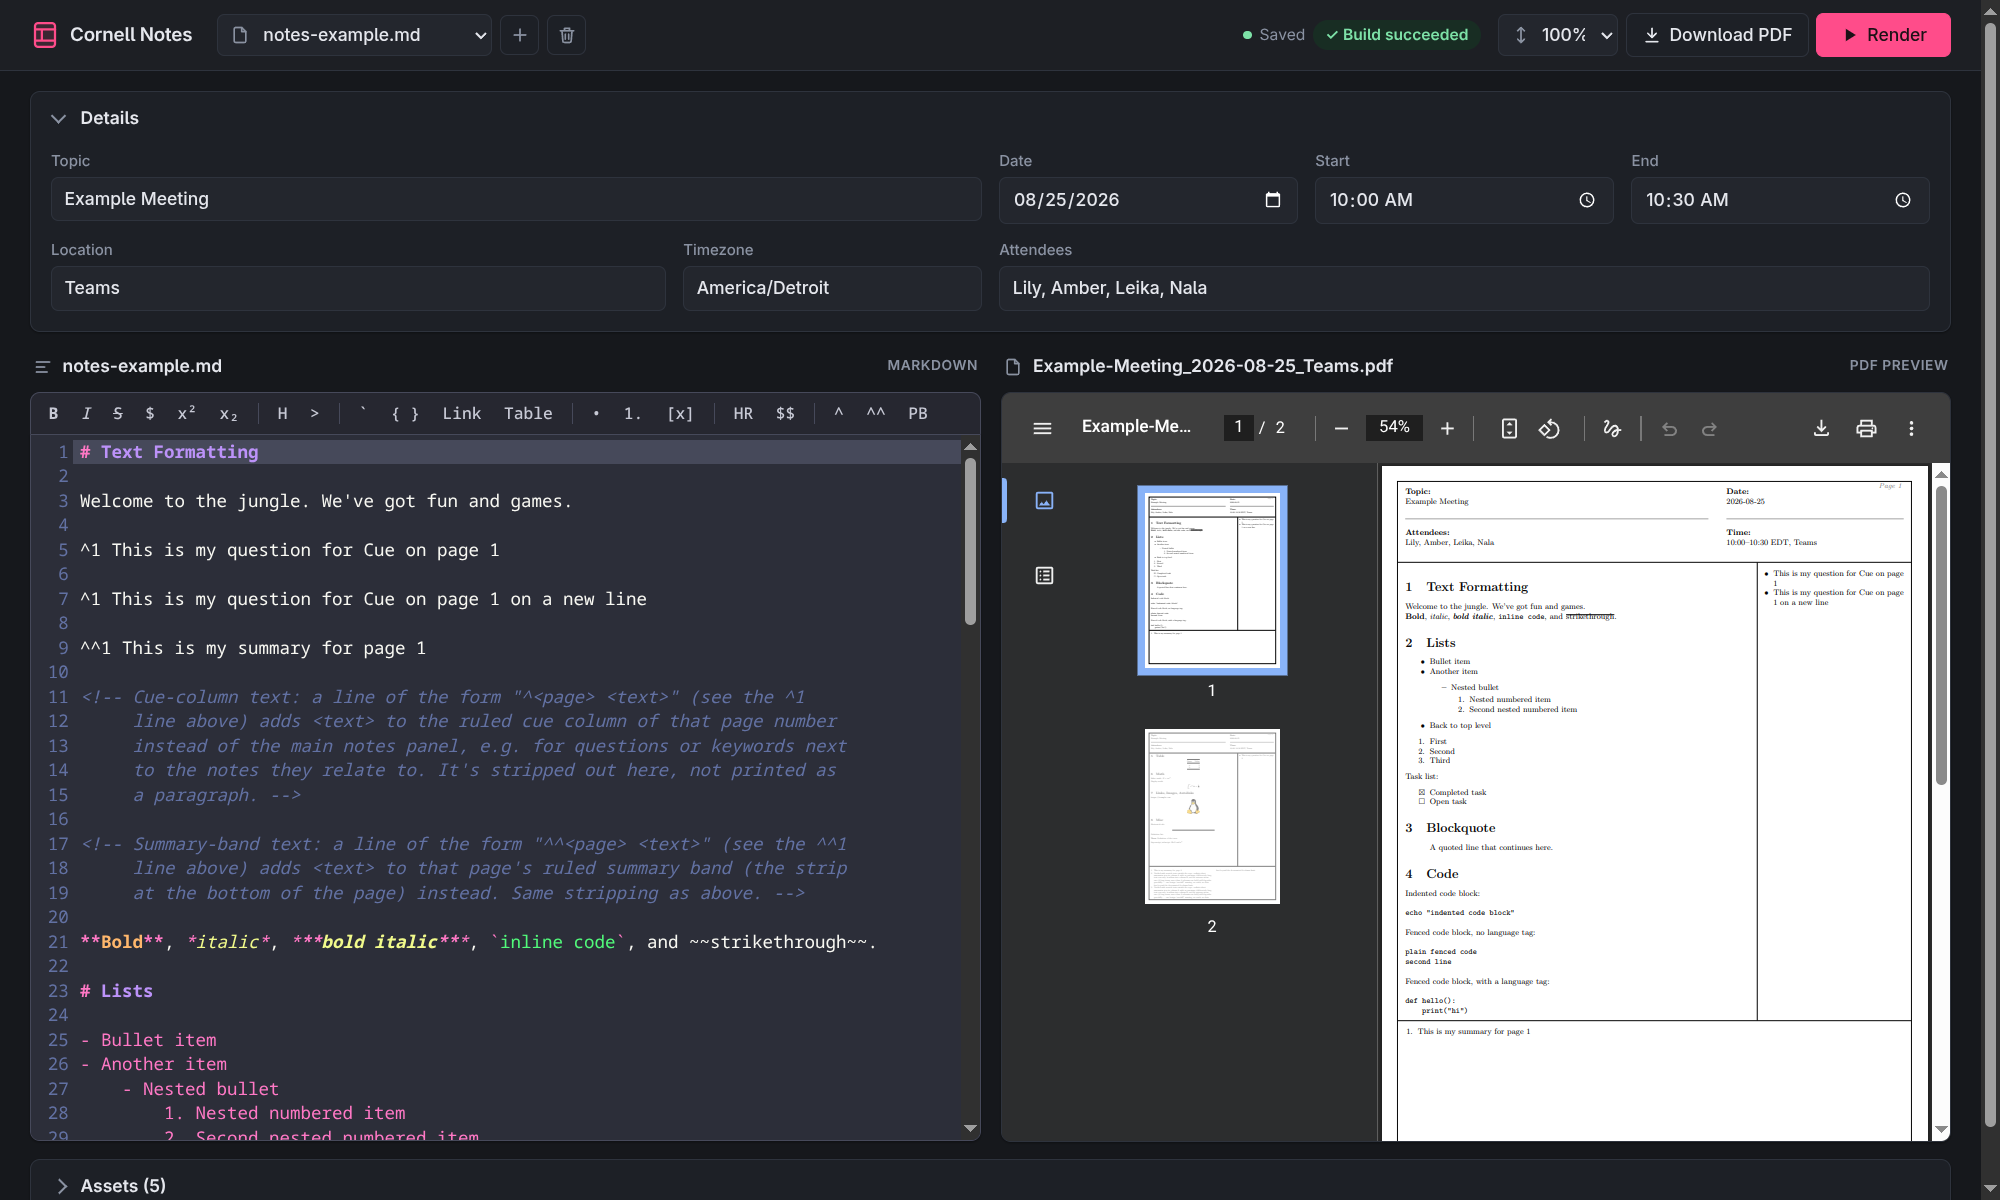
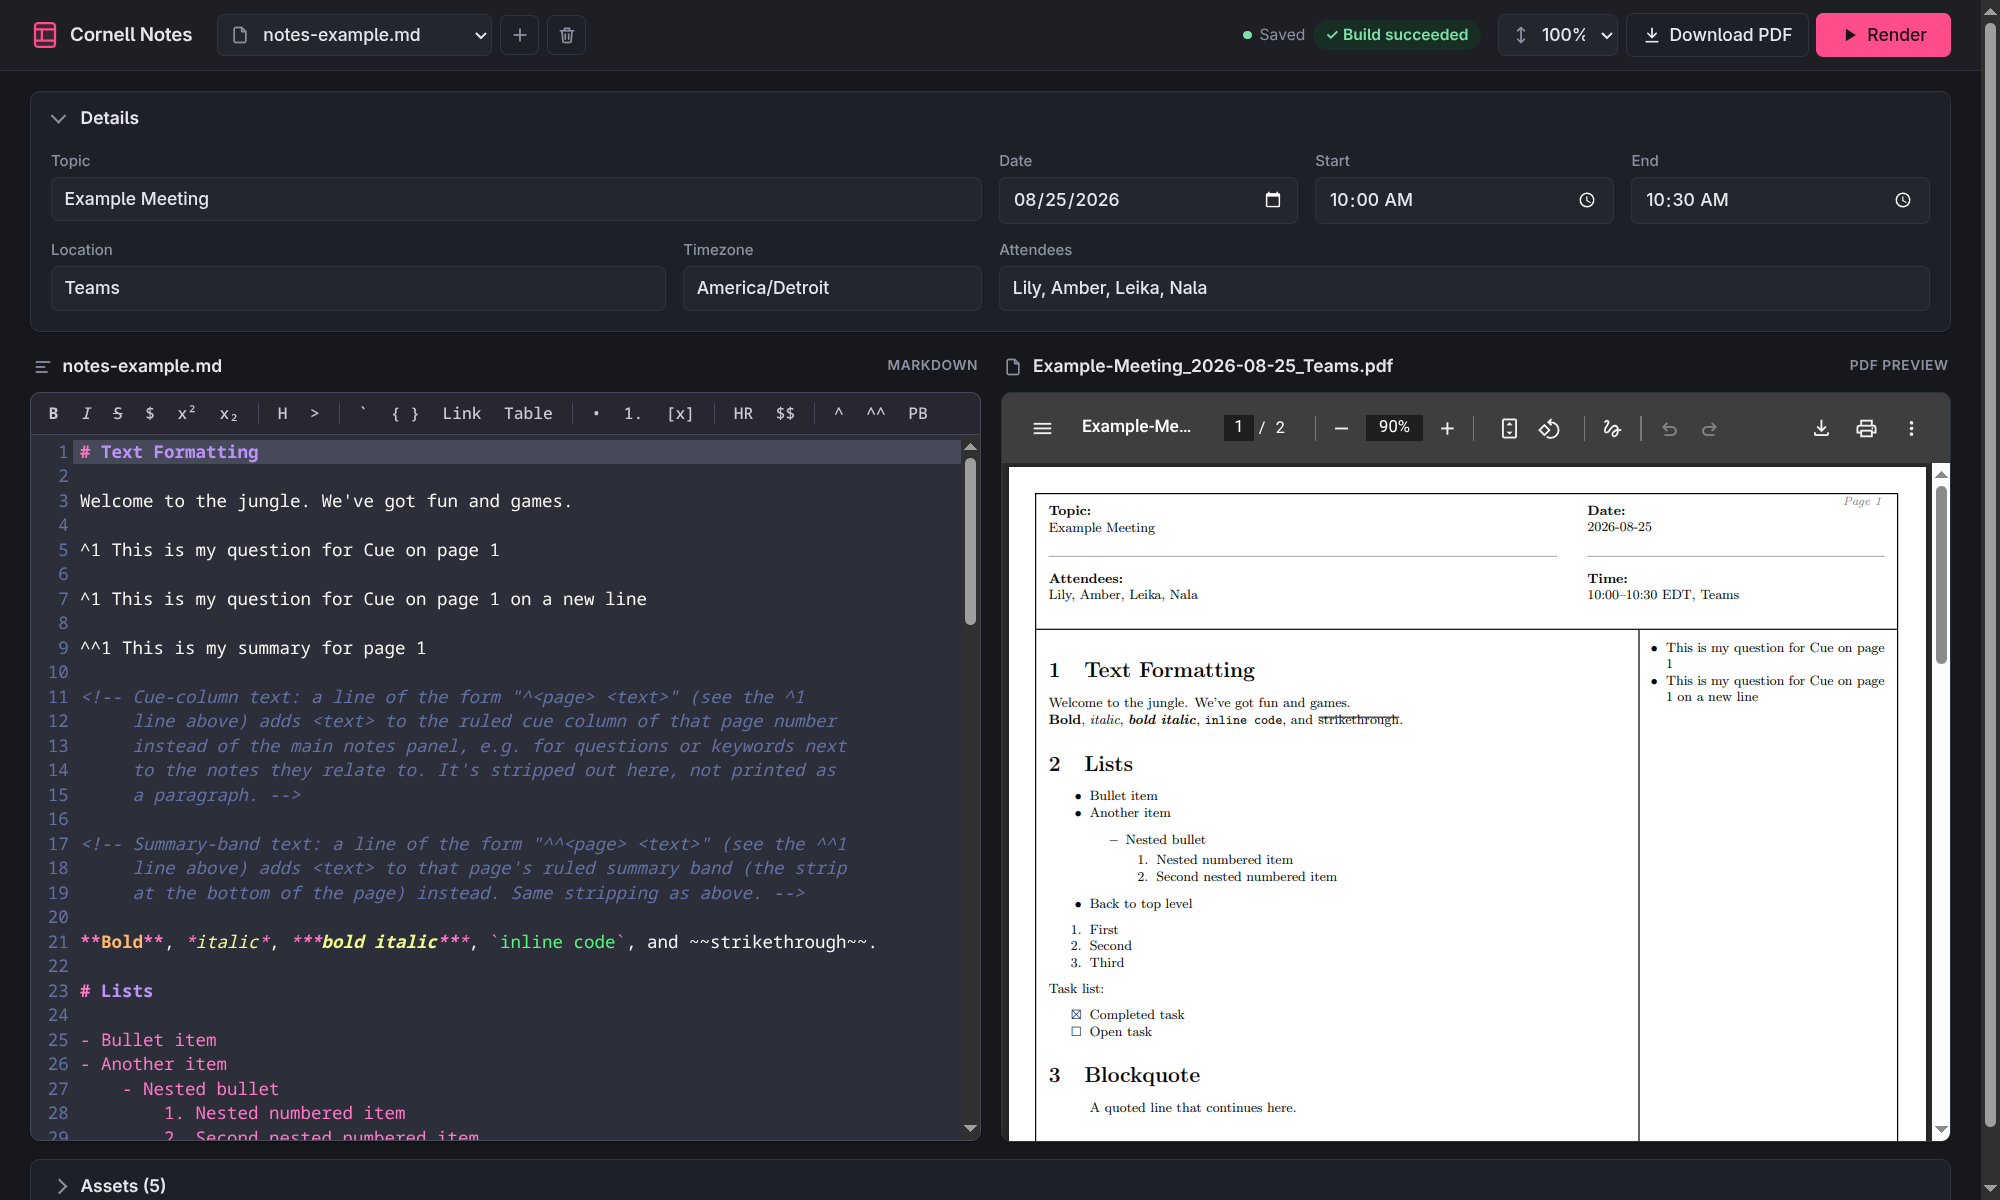
open the PDF preview without the page-thumbnail sidebar
- Add navpanes=0 to the preview URL so Chromium's PDF viewer starts with
  its sidebar closed and the page fills the pane; the toolbar's menu
  button still opens it. (Chromium ignores pagemode=none.)
- Retake the README screenshots without the sidebar.
- docs/editor-app.md: note the preview opens with the sidebar closed.

Changed region(s): [[0.496, 0.37, 0.992, 0.9558]]

diff --git a/app/renderer/app.js b/app/renderer/app.js
@@ -405,8 +405,11 @@ function updatePdf() {
   // to the frame's *width* on load. Plain Fit letterboxes the page whenever
   // the frame is proportionally wider than it; FitH always fills the width,
   // at the cost of scrolling inside the frame when the pane is shorter than
-  // a full page. ?v= busts the cache after each re-render.
-  const src = `${state.pdf.url}?v=${state.pdf.version}#view=FitH`;
+  // a full page. navpanes=0 starts with the page-thumbnail sidebar closed
+  // (Chromium otherwise opens it, squeezing the page) while keeping the
+  // toolbar, whose menu button can still open it. ?v= busts the cache after
+  // each re-render.
+  const src = `${state.pdf.url}?v=${state.pdf.version}#view=FitH&navpanes=0`;
   let frame = host.querySelector("iframe");
   if (!frame) {
     frame = h("iframe", { title: "PDF preview" });

diff --git a/docs/editor-app.md b/docs/editor-app.md
@@ -93,6 +93,8 @@ changed since that file's last render in this window. Header fields and markdown
 both autosave to disk continuously as you edit (about half a second after
 you stop typing, or as soon as the editor loses focus) rather than only on
 Render, so switching files or closing the window doesn't lose unsaved work.
+The preview opens fitted to the pane's width with the viewer's page-thumbnail
+sidebar closed; its menu button (top left of the preview) toggles it.
 Links clicked inside the PDF preview open in your web browser.
 
 At the bottom is an **Assets** expander (labeled with the current file
